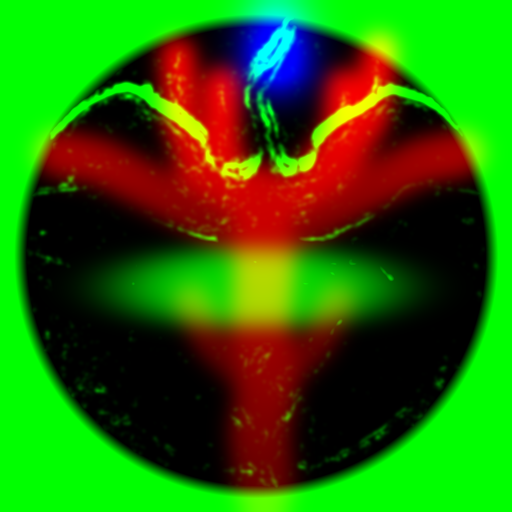
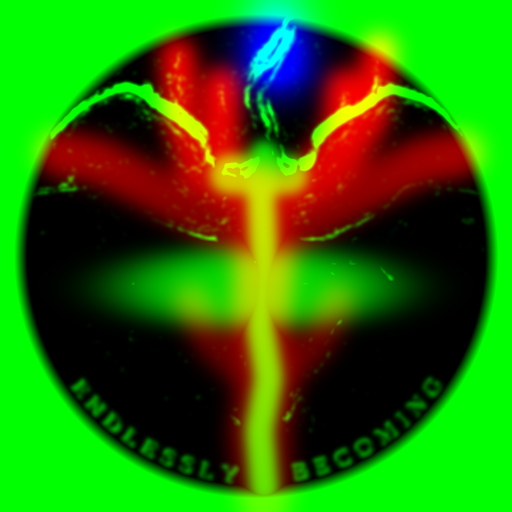
Loader: written ENDLESSLY BECOMING, softer low fire, head bows; Brand font
- ENDLESSLY BECOMING struck along the bottom rim to match YVIS HAUSEN
  (wide Times, soft worn edges) and written in slowly left to right;
  faint old rim lettering on the artwork cleared first
- Fire is quieter and more transparent low down and is held back by the
  bird's tail and body so it stays behind the bird
- The head bows a little further down towards the end
- Loader shows 4.6s; reduced-motion visitors get one finished frame
- Brand font (Sensatype) for the YVIS HAUSEN title and ENQUIRE only

Claude-Session: https://claude.ai/code/session_01GEiCiMgUdnFGueHPjJC2GJ

diff --git a/script.js b/script.js
@@ -3,7 +3,7 @@
 // liquid-metal fire catches at the tail, climbs up behind the body and is
 // drawn up into the flame-shaped inflections above the wings, passing behind
 // the raised relief and lettering. The bird's head turns gently.
-const LOADER_MS = 4200;
+const LOADER_MS = 4600;
 let stopCoinFire = null;
 
 window.addEventListener('load', () => {
@@ -17,7 +17,9 @@ window.addEventListener('load', () => {
 });
 
 function startCoinFire(canvas){
-  if(!canvas || window.matchMedia('(prefers-reduced-motion: reduce)').matches) return null;
+  if(!canvas) return null;
+  // with reduced motion, draw a single finished frame instead of animating
+  const still = window.matchMedia('(prefers-reduced-motion: reduce)').matches;
   const gl = canvas.getContext('webgl', { premultipliedAlpha:true, alpha:true, antialias:false });
   if(!gl) return null;
 
@@ -27,6 +29,7 @@ function startCoinFire(canvas){
     varying vec2 uv;
     uniform sampler2D coin;    // the finished medal
     uniform sampler2D flames;  // r: where fire may burn, g: raised relief it passes behind, b: head weight
+    uniform sampler2D words;   // r: ENDLESSLY BECOMING relief / 2, g: writing order, b: letter coverage
     uniform float t;
     float hash(vec2 p){ return fract(sin(dot(p, vec2(127.1, 311.7))) * 43758.5453); }
     float noise(vec2 p){
@@ -50,9 +53,12 @@ function startCoinFire(canvas){
       // the head turns gently about the middle of the neck
       if(m.b > 0.001){
         vec2 piv = vec2(0.5207, 0.2563);
-        float a = (0.045 * sin(t * 1.1) + 0.018 * sin(t * 2.3 + 1.0)) * m.b;
+        // ...and towards the end bows a little further down
+        float dip = smoothstep(2.6, 3.9, t);
+        float a = ((0.045 * sin(t * 1.1) + 0.018 * sin(t * 2.3 + 1.0)) * (1.0 - 0.6 * dip) - 0.11 * dip) * m.b;
         vec2 d = uv - piv;
         st = piv + vec2(d.x * cos(a) - d.y * sin(a), d.x * sin(a) + d.y * cos(a));
+        st.y -= 0.012 * dip * m.b;
       }
       vec4 c = texture2D(coin, st);
       if(m.r > 0.001){
@@ -62,7 +68,9 @@ function startCoinFire(canvas){
         float rag = (noise(vec2(uv.x * 9.0, t * 1.6)) - 0.5) * 0.14;
         float front = t * 0.42 + 0.02;
         float lit = 1.0 - smoothstep(front - 0.12, front + 0.02, yb + rag);
-        float k = m.r * lit * (1.0 - 0.9 * m.g);
+        // quieter and more transparent low down, fuller towards the wings
+        float low = mix(0.28, 1.0, smoothstep(0.12, 0.55, yb));
+        float k = m.r * lit * (1.0 - 0.9 * m.g) * low;
         if(k > 0.001){
           float e = 0.003;
           float h = flame(uv);
@@ -74,11 +82,17 @@ function startCoinFire(canvas){
           float diff = dot(n, L) - L.z;
           float spec = max(pow(max(dot(n, H), 0.0), 32.0) - pow(H.z, 32.0), 0.0);
           // a soft bright seam where the fire is catching
-          float seam = exp(-pow((yb + rag - front) / 0.035, 2.0)) * m.r * (1.0 - m.g) * step(front, 1.15);
+          float seam = exp(-pow((yb + rag - front) / 0.035, 2.0)) * m.r * (1.0 - m.g) * low * step(front, 1.15);
           c.rgb *= 1.0 + diff * 1.0 + h * k * 0.12 + seam * 0.25;
           c.rgb += (c.rgb * 0.6 + 0.2) * spec * 1.4;
         }
       }
+      // ENDLESSLY BECOMING is slowly written in along the rim, left to right
+      vec3 wd = texture2D(words, uv).rgb;
+      float p = clamp((t - 0.9) / 2.9, 0.0, 1.0) * 1.1 - 0.04;
+      float shown = clamp((p - wd.g) / 0.05, 0.0, 1.0);
+      c.rgb *= mix(1.0, wd.r * 2.0, shown);
+      c.rgb += c.rgb * exp(-pow((p - wd.g) / 0.018, 2.0)) * wd.b * 0.16 * step(p, 1.0);
       gl_FragColor = vec4(c.rgb * c.a, c.a);
     }`;
 
@@ -125,11 +139,13 @@ function startCoinFire(canvas){
     if(!running) return;
     const size = Math.round(canvas.clientWidth * Math.min(window.devicePixelRatio || 1, 2));
     if(canvas.width !== size){ canvas.width = canvas.height = size; gl.viewport(0, 0, size, size); }
-    gl.uniform1f(tLoc, (now - t0) / 1000);
+    gl.uniform1f(tLoc, still ? 6.0 : (now - t0) / 1000);
     gl.drawArrays(gl.TRIANGLE_STRIP, 0, 4);
-    raf = requestAnimationFrame(frame);
+    if(!still) raf = requestAnimationFrame(frame);
   }
-  Promise.all([texture(0, 'coin', 'images/yvis-hausen-coin.png'), texture(1, 'flames', 'images/coin-flames.png')])
+  Promise.all([texture(0, 'coin', 'images/yvis-hausen-coin.png'),
+               texture(1, 'flames', 'images/coin-flames.png'),
+               texture(2, 'words', 'images/coin-text.png')])
     .then(() => { if(running) raf = requestAnimationFrame(frame); })
     .catch(() => {});
   return () => { running = false; cancelAnimationFrame(raf); };

diff --git a/styles.css b/styles.css
@@ -1,3 +1,10 @@
+/* Brand (Sensatype Studio) — used only for the YVIS HAUSEN title and ENQUIRE */
+@font-face{
+  font-family:"Brand";
+  src:url("fonts/Brand.woff") format("woff"), url("fonts/Brand.ttf") format("truetype");
+  font-weight:400; font-style:normal; font-display:swap;
+}
+
 :root{
   --bg:#050403;
   --fg:#F5F2EB;
@@ -63,8 +70,8 @@ button{font-family:inherit;background:none;border:none;color:inherit;cursor:poin
 .emblem img{ display:block; width:100%; height:100%; }
 .emblem:hover{ opacity:0.85; transform:scale(1.04); }
 .wordmark{
-  font-family:var(--serif); color:var(--fg);
-  font-size:clamp(15px,2vw,20px); letter-spacing:0.16em; font-weight:700;
+  font-family:"Brand", var(--serif); color:var(--fg);
+  font-size:clamp(18px,2.4vw,25px); letter-spacing:0.12em; font-weight:400;
   cursor:pointer; white-space:nowrap;
 }
 .subtitle-wrap{ height:20px; overflow:hidden; position:relative; }
@@ -78,7 +85,7 @@ button{font-family:inherit;background:none;border:none;color:inherit;cursor:poin
 
 .bar-center{ justify-self:center; }
 .enquire-btn{
-  font-family:var(--serif); font-size:11.5px; letter-spacing:0.22em;
+  font-family:"Brand", var(--serif); font-size:13px; letter-spacing:0.2em;
   color:var(--fg); border:1px solid var(--fg); padding:9px 26px;
   white-space:nowrap; transition:background .3s ease, color .3s ease;
 }
@@ -398,9 +405,9 @@ button{font-family:inherit;background:none;border:none;color:inherit;cursor:poin
   .bar-inner{ grid-template-columns:auto 1fr auto; gap:10px; padding:12px 16px; }
   .emblem{ width:40px; height:40px; }
   .subtitle-wrap{ display:none; }
-  .wordmark{ font-size:15px; letter-spacing:0.12em; }
+  .wordmark{ font-size:17px; letter-spacing:0.1em; }
   .bar-right{ gap:14px; }
-  .enquire-btn{ padding:7px 12px; font-size:10.5px; letter-spacing:0.16em; }
+  .enquire-btn{ padding:7px 12px; font-size:11.5px; letter-spacing:0.16em; }
   .lang-toggle > span{ display:none; }
   .lang-globe{ width:17px; height:17px; }
   .header-title{ margin:0 0 26px 20px; font-size:clamp(24px,8vw,40px); }
